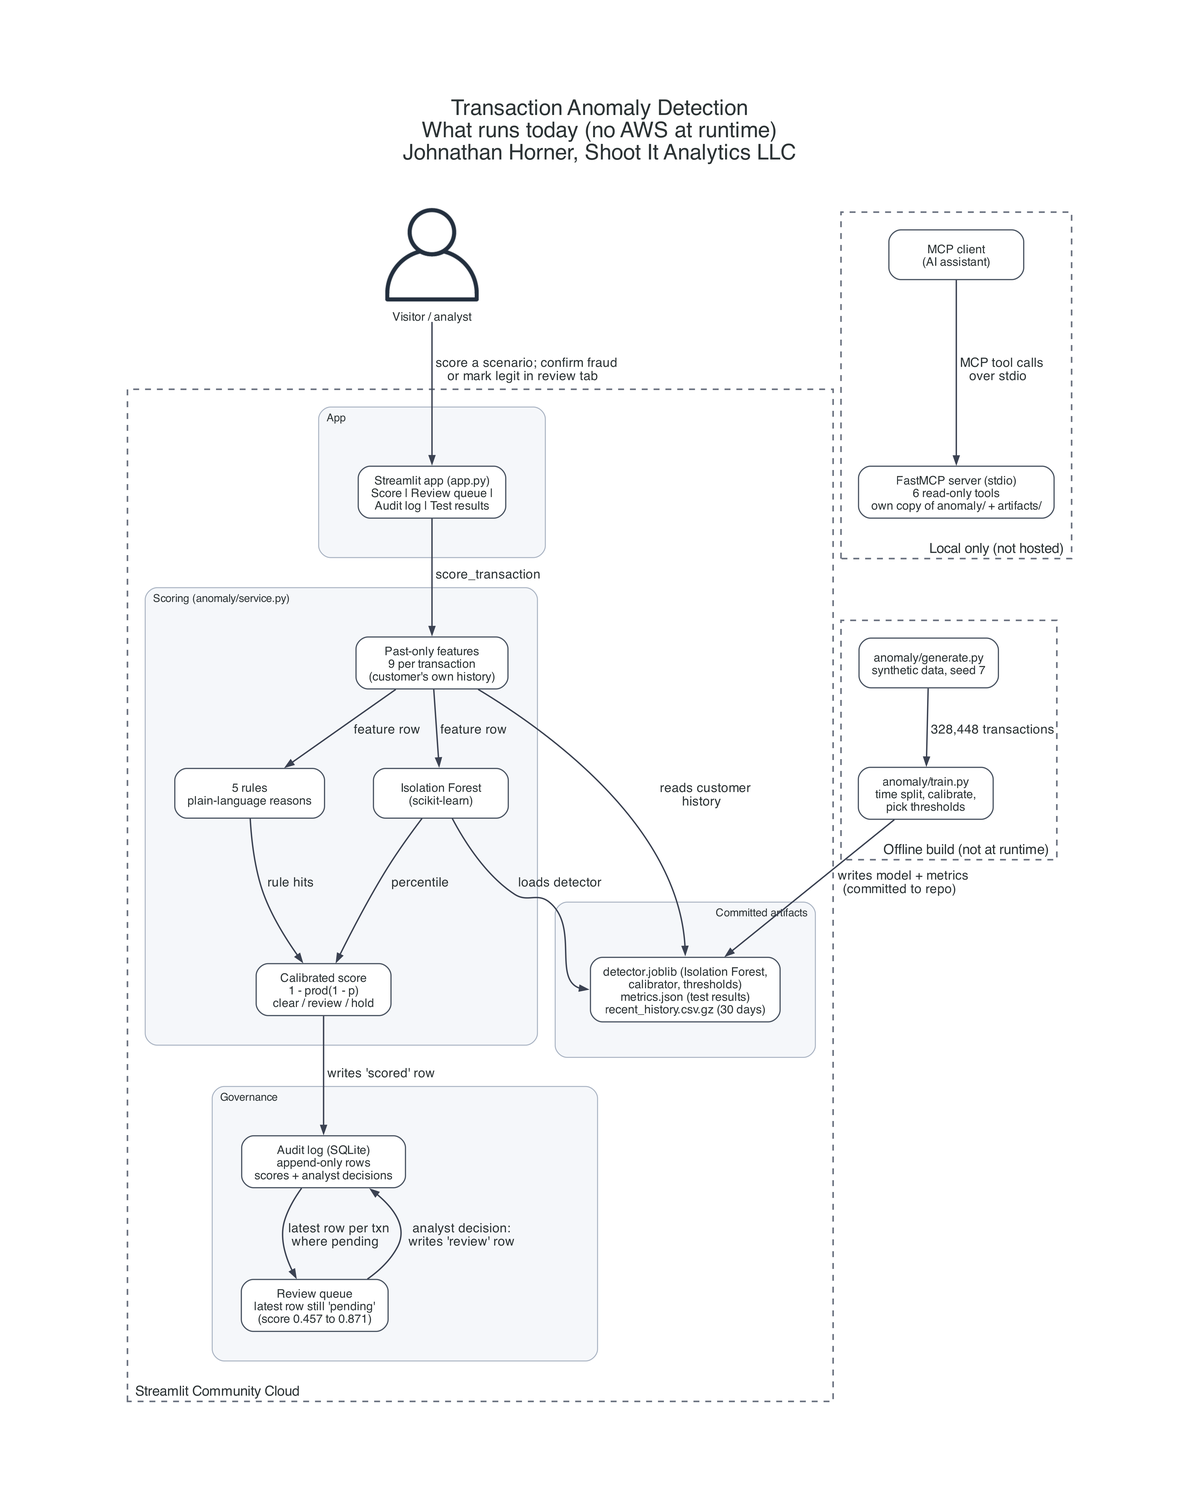
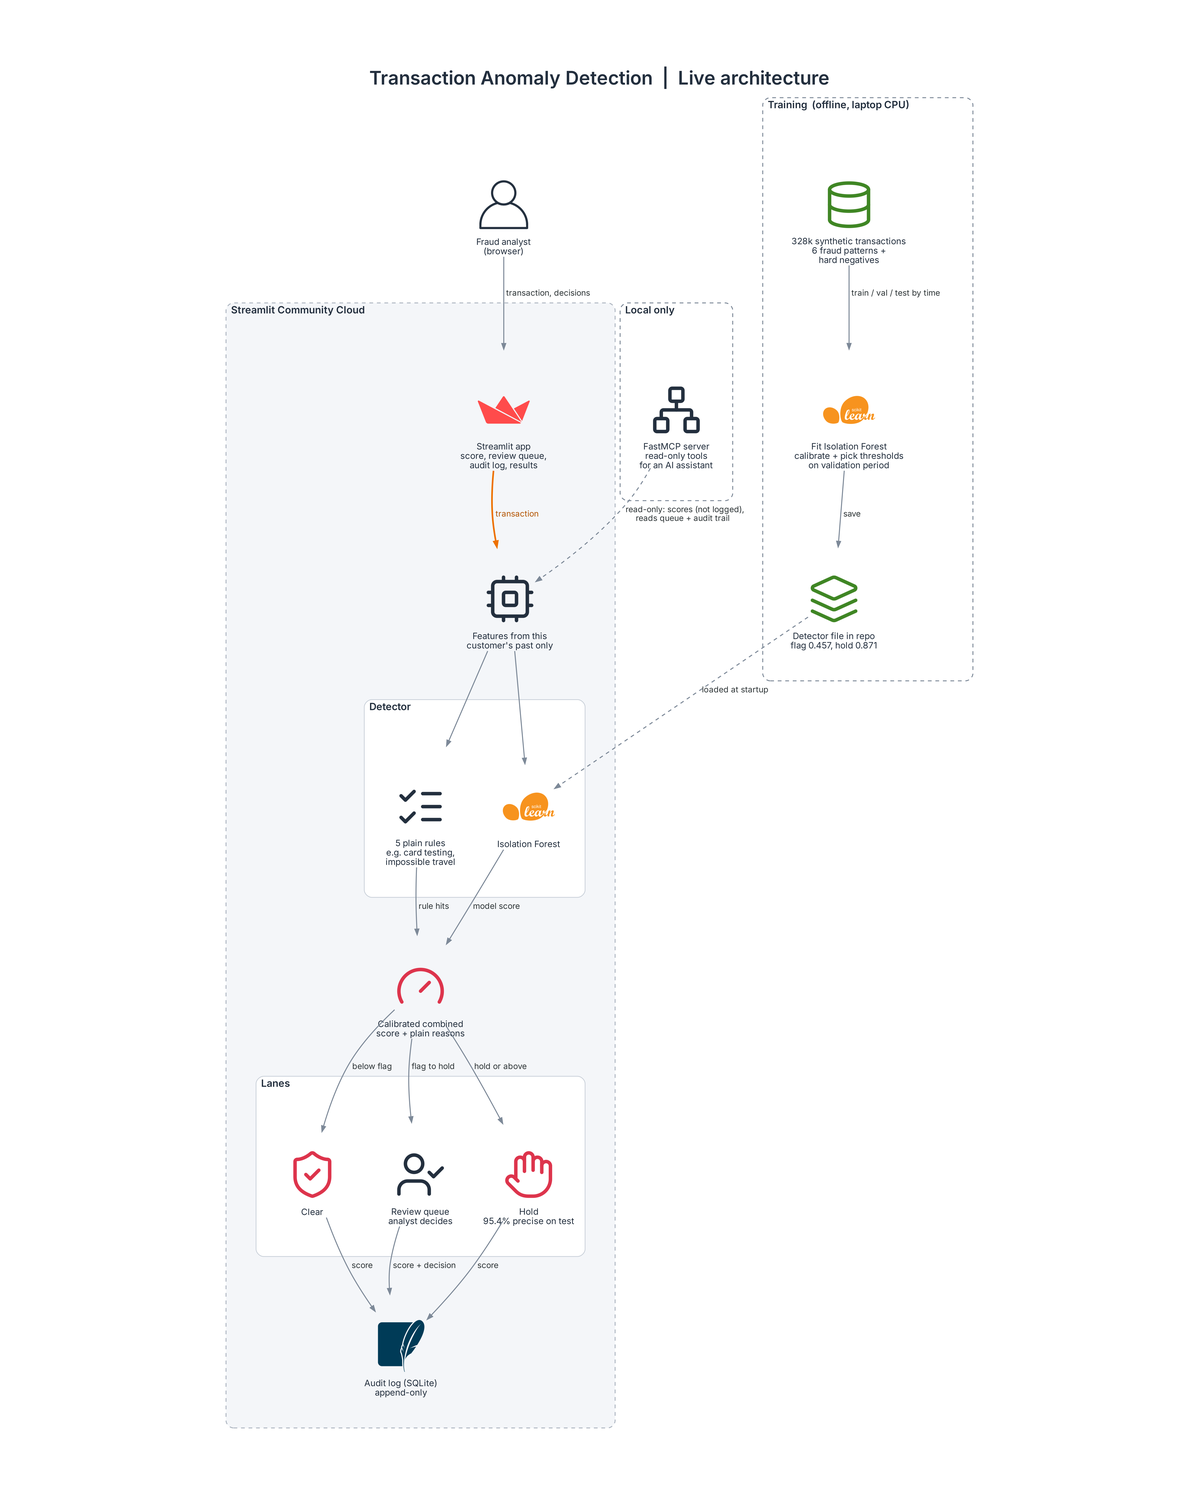
Replace architecture diagrams

diff --git a/docs/architecture/architecture.py b/docs/architecture/architecture.py
@@ -1,58 +1,53 @@
-"""Transaction Anomaly Detection: what runs today (traced from origin/main).
+"""Transaction Anomaly Detection: training (offline), the live app and the local MCP server. No AWS services."""
+import sys
+from pathlib import Path
 
-Run from this directory:  python architecture.py
-"""
-from diagrams.aws.general import User
+sys.path.insert(0, str(Path(__file__).resolve().parent))
+from diagrams import Diagram
+from diagrams.onprem.client import User
 
-from archstyle import arch, box, e, layer, linkedin, outside
+from style import EDGE, GRAPH, NODE, area, flow, icon, primary, soft
 
-OUT = "architecture"
-with arch("Transaction Anomaly Detection", "What runs today (no AWS at runtime)", OUT):
-    user = User("Visitor / analyst")
+with Diagram("Transaction Anomaly Detection  |  Live architecture",
+             filename=str(Path(__file__).with_name("architecture")), outformat="png", direction="TB",
+             show=False, graph_attr=GRAPH, node_attr=NODE, edge_attr=EDGE):
+    user = User("Fraud analyst\n(browser)")
 
-    with outside("Streamlit Community Cloud"):
-        with layer("App", margin=40):
-            app = box("Streamlit app (app.py)\nScore | Review queue |\nAudit log | Test results")
-        with layer("Scoring (anomaly/service.py)"):
-            feats = box("Past-only features\n9 per transaction\n(customer's own history)")
-            model = box("Isolation Forest\n(scikit-learn)")
-            rules = box("5 rules\nplain-language reasons")
-            combine = box("Calibrated score\n1 - prod(1 - p)\nclear / review / hold")
-        with layer("Governance"):
-            audit = box("Audit log (SQLite)\nappend-only rows\nscores + analyst decisions")
-            queue = box("Review queue\nlatest row still 'pending'\n(score 0.457 to 0.871)")
-        committed = layer("Committed artifacts", margin=36)
-        committed.dot.graph_attr["labeljust"] = "r"  # the model edge enters from the left
-        with committed:
-            artifacts = box("detector.joblib (Isolation Forest,\ncalibrator, thresholds)\nmetrics.json (test results)\nrecent_history.csv.gz (30 days)")
+    with area("Training  (offline, laptop CPU)", "plan"):
+        gen = icon("database-green", "328k synthetic transactions\n6 fraud patterns +\nhard negatives")
+        fit = icon("scikitlearn", "Fit Isolation Forest\ncalibrate + pick thresholds\non validation period")
+        model = icon("layers-green", "Detector file in repo\nflag 0.457, hold 0.871")
 
-    local = outside("Local only (not hosted)")
-    local.dot.graph_attr["labeljust"] = "r"
-    with local:
-        client = box("MCP client\n(AI assistant)")
-        mcp = box("FastMCP server (stdio)\n6 read-only tools\nown copy of anomaly/ + artifacts/")
+    with area("Local only", "plan"):
+        mcp = icon("network-ink", "FastMCP server\nread-only tools\nfor an AI assistant")
 
-    offline = outside("Offline build (not at runtime)")
-    offline.dot.graph_attr["labeljust"] = "r"
-    with offline:
-        gen = box("anomaly/generate.py\nsynthetic data, seed 7")
-        train = box("anomaly/train.py\ntime split, calibrate,\npick thresholds")
+    with area("Streamlit Community Cloud", "host"):
+        app = icon("streamlit", "Streamlit app\nscore, review queue,\naudit log, results")
+        feats = icon("cpu-ink", "Features from this\ncustomer's past only")
+        with area("Detector"):
+            iforest = icon("scikitlearn", "Isolation Forest")
+            rules = icon("list-checks-ink", "5 plain rules\ne.g. card testing,\nimpossible travel")
+        score = icon("gauge-red", "Calibrated combined\nscore + plain reasons")
+        with area("Lanes"):
+            clear = icon("shield-check-red", "Clear")
+            queue = icon("user-check-ink", "Review queue\nanalyst decides")
+            hold = icon("hand-red", "Hold\n95.4% precise on test")
+        audit = icon("sqlite", "Audit log (SQLite)\nappend-only")
 
-    user >> e("score a scenario; confirm fraud\nor mark legit in review tab") >> app
-    app >> e("score_transaction") >> feats
-    feats >> e("feature row") >> model
-    feats >> e("feature row") >> rules
-    model >> e("percentile") >> combine
-    rules >> e("rule hits") >> combine
-    combine >> e("writes 'scored' row") >> audit
-    audit >> e("latest row per txn\nwhere pending") >> queue
-    queue >> e("analyst decision:\n  writes 'review' row", constraint="false") >> audit
-    feats >> e("reads customer\nhistory", headport="n") >> artifacts
-    model >> e("loads detector", headport="w") >> artifacts
+    gen >> flow("train / val / test by time") >> fit
+    fit >> flow("save") >> model
+    model >> soft("loaded at startup") >> iforest
 
-    client >> e("MCP tool calls\nover stdio") >> mcp
-
-    gen >> e("328,448 transactions") >> train
-    train >> e("writes model + metrics\n(committed to repo)") >> artifacts
-
-linkedin(OUT)
+    user >> flow("transaction, decisions") >> app
+    app >> primary("transaction") >> feats
+    feats >> flow() >> iforest
+    feats >> flow() >> rules
+    iforest >> flow("model score") >> score
+    rules >> flow("rule hits") >> score
+    score >> flow("below flag") >> clear
+    score >> flow("flag to hold") >> queue
+    score >> flow("hold or above") >> hold
+    queue >> flow("score + decision") >> audit
+    hold >> flow("score") >> audit
+    clear >> flow("score") >> audit
+    mcp >> soft("read-only: scores (not logged),\nreads queue + audit trail") >> feats

diff --git a/docs/architecture/style.py b/docs/architecture/style.py
@@ -1,0 +1,58 @@
+"""Shared look for every portfolio architecture diagram.
+
+Johnathan Horner, Shoot It Analytics LLC.
+Python diagrams library, official AWS icons, white background, top-down, labeled arrows.
+Brand icons: Simple Icons (CC0). Outline icons: Lucide (ISC).
+"""
+from pathlib import Path
+
+from diagrams import Cluster, Edge
+from diagrams.custom import Custom
+
+ICONS = Path(__file__).parent / "icons"
+FONT = "Inter"
+
+INK = "#232F3E"      # AWS squid ink
+ORANGE = "#ED7100"   # primary AI path
+GREY = "#7D8998"
+RED = "#DD344C"
+
+GRAPH = {
+    "dpi": "300", "bgcolor": "white", "fontname": FONT + " SemiBold", "fontsize": "30",
+    "fontcolor": INK, "labelloc": "t", "pad": "0.6", "nodesep": "1.25", "ranksep": "1.05",
+    "splines": "spline", "newrank": "true", "compound": "true",
+}
+NODE = {"fontname": FONT, "fontsize": "14", "fontcolor": INK, "width": "1.15", "height": "1.15",
+        "imagescale": "true", "labelloc": "b"}
+EDGE = {"fontname": FONT, "fontsize": "13", "fontcolor": "#3B4754", "color": GREY, "penwidth": "1.6",
+        "arrowsize": "0.9"}
+
+
+def area(label, kind="layer"):
+    """Cluster styles: 'host' (outer platform), 'aws' (AWS Cloud boundary), 'ext' (outside vendor), 'layer'."""
+    base = {"fontname": FONT + " SemiBold", "fontsize": "16", "fontcolor": INK, "margin": "48",
+            "labeljust": "l", "style": "rounded"}
+    styles = {
+        "host": {"bgcolor": "#F4F6F9", "pencolor": "#AEB6C1", "style": "rounded,dashed", "penwidth": "1.5"},
+        "aws": {"bgcolor": "#FFFFFF", "pencolor": INK, "penwidth": "2.2", "style": "solid"},
+        "ext": {"bgcolor": "#FAF8FD", "pencolor": "#B9A9D6", "style": "rounded,dashed", "penwidth": "1.5"},
+        "layer": {"bgcolor": "#FFFFFF", "pencolor": "#C9D0D9", "penwidth": "1.2"},
+        "plan": {"bgcolor": "#FFFFFF", "pencolor": GREY, "style": "rounded,dashed", "penwidth": "1.5"},
+    }
+    return Cluster(label, graph_attr={**base, **styles[kind]})
+
+
+def icon(name, label):
+    return Custom(label, str(ICONS / f"{name}.png"))
+
+
+def flow(label="", **kw):
+    return Edge(label=f" {label} " if label else "", **kw)
+
+
+def primary(label=""):
+    return flow(label, color=ORANGE, penwidth="2.6", fontcolor="#B35400")
+
+
+def soft(label=""):
+    return flow(label, style="dashed")

diff --git a/docs/architecture/arrow-verification.md b/docs/architecture/arrow-verification.md
@@ -1,27 +1,11 @@
-# Arrow verification: Transaction Anomaly Detection
+# Arrow check
 
-Diagram: `docs/architecture/architecture.png` (What runs today, no AWS at runtime).
-Code read from `origin/main` at d14d740. No arrow touches an AWS service, so no AWS doc applies.
-No second diagram: there is no IaC (CDK, Terraform, SAM) on main.
+Every arrow that touches an AWS service, with the official AWS page that confirms it and its direction. Arrows between non-AWS parts (Streamlit, Gemini, SQLite, scikit-learn and so on) were checked against the code only. Links come from docs.aws.amazon.com only.
 
-| From | To | Action | Code evidence | AWS doc |
-|---|---|---|---|---|
-| Visitor / analyst | Streamlit app | Picks a synthetic customer, runs a scenario (ordinary, card testing 4 x $1.50, abroad 1 hour later, large jewelry) or a manual transaction; in the review tab clicks Confirm fraud / Mark legitimate | app.py:38-74 (score tab), app.py:80-96 (review tab) | N/A (not AWS) |
-| Streamlit app | Past-only features | `FraudService.score_transaction(...)` builds features for the new row from that customer's earlier rows | app.py:49-74; anomaly/service.py:37-66; anomaly/features.py:8-18, 29-88 | N/A (not AWS) |
-| Past-only features | Isolation Forest | Feature row scored with `score_samples`, mapped to a percentile of training scores | anomaly/detector.py:67-69, 87 | N/A (not AWS) |
-| Past-only features | 5 rules | Feature row evaluated by `rules.evaluate`, each hit has a plain-language reason | anomaly/detector.py:71-72; anomaly/rules.py:22-53 | N/A (not AWS) |
-| Isolation Forest | Calibrated score | Percentile -> isotonic calibration -> probability | anomaly/detector.py:85-88, 74-78 | N/A (not AWS) |
-| 5 rules | Calibrated score | Each rule hit contributes its validation precision; combined as 1 - product(1 - p); lane by thresholds | anomaly/detector.py:89-102, 122-131 | N/A (not AWS) |
-| Calibrated score | Audit log (SQLite) | Writes a `scored` row (`pending` if lane is review_queue) when `log=True` (app default) | anomaly/service.py:70-72; anomaly/audit.py:51-58; DB path app.py:27 (`ANOMALY_AUDIT_DB`, default `audit_log.sqlite3`) | N/A (not AWS) |
-| Audit log | Review queue | Query: latest row per transaction where `reviewer_action = 'pending'`, highest score first | anomaly/audit.py:90-101; anomaly/service.py:107-108; app.py:81 | N/A (not AWS) |
-| Review queue | Audit log | Analyst decision appends a `review` row (`confirmed_fraud` or `marked_legit`) | app.py:91-96; anomaly/service.py:110-111; anomaly/audit.py:60-69 | N/A (not AWS) |
-| Past-only features | Committed artifacts | Reads customer history from `data/recent_history.csv.gz` (loaded once into memory) | anomaly/service.py:18, 27-29, 52 | N/A (not AWS) |
-| Isolation Forest | Committed artifacts | Loads `artifacts/detector.joblib` (whole Detector: model, calibrator, rule precisions, thresholds); metrics.json read for Test results | anomaly/service.py:26; anomaly/detector.py:137-139; anomaly/config.py:8-9; anomaly/service.py:113-115; app.py:110-111 | N/A (not AWS) |
-| MCP client (AI assistant) | FastMCP server (local) | MCP tool calls over stdio; 6 tools, 2 resources, 1 prompt; scoring passes `remember=False, log=False` | mcp_server.py:20, 28-93, 96-97 (`mcp.run()`, stdio per docstring :6); README.md:122-126 | N/A (not AWS) |
-| anomaly/generate.py | anomaly/train.py | Synthetic data (seed 7): 328,448 transactions, read from `data/transactions.csv` or generated in-process | anomaly/generate.py:137-152; anomaly/train.py:80; artifacts/metrics.json `data.transactions` | N/A (not AWS) |
-| anomaly/train.py | Committed artifacts | Writes `detector.joblib` and `metrics.json` (committed; README.md:108-109) | anomaly/train.py:126-127; anomaly/detector.py:133-135 | N/A (not AWS) |
+## architecture.png (live)
 
-UNVERIFIED arrows: none (no AWS arrows).
+No AWS services in this diagram. Every arrow was checked against the code.
 
-Not drawn as an arrow: no code in the repo writes `data/recent_history.csv.gz` (only anomaly/service.py:18 reads it).
-The diagram's merged artifacts box says "30 days". The file holds 109,491 rows for 2,000 customers, 2026-03-02 to 2026-04-01, which matches the last 30 days of the generated 90-day set.
+## UNVERIFIED
+
+None.
